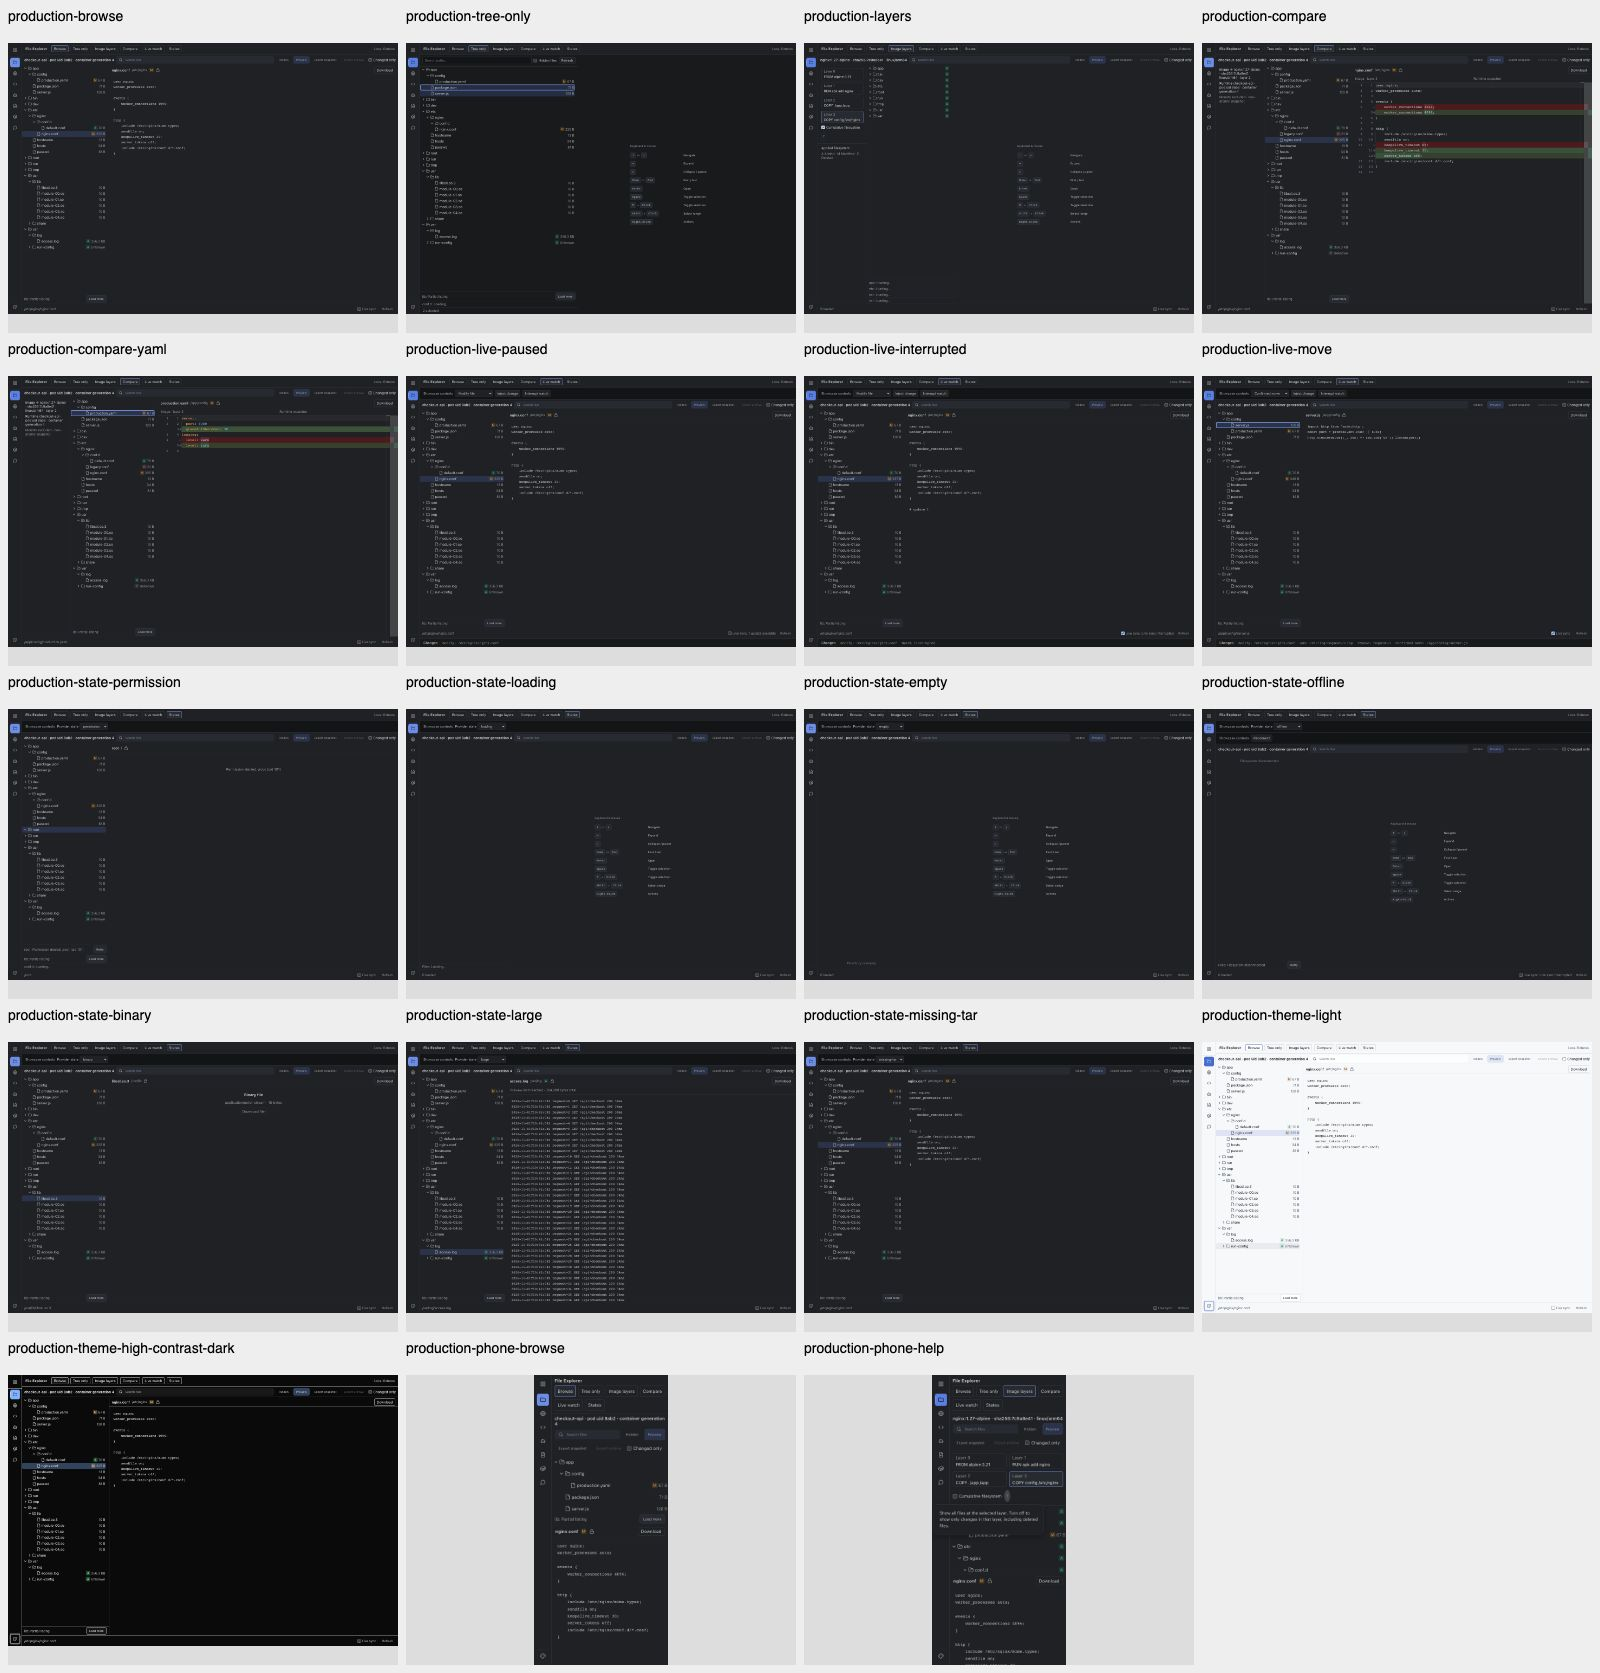
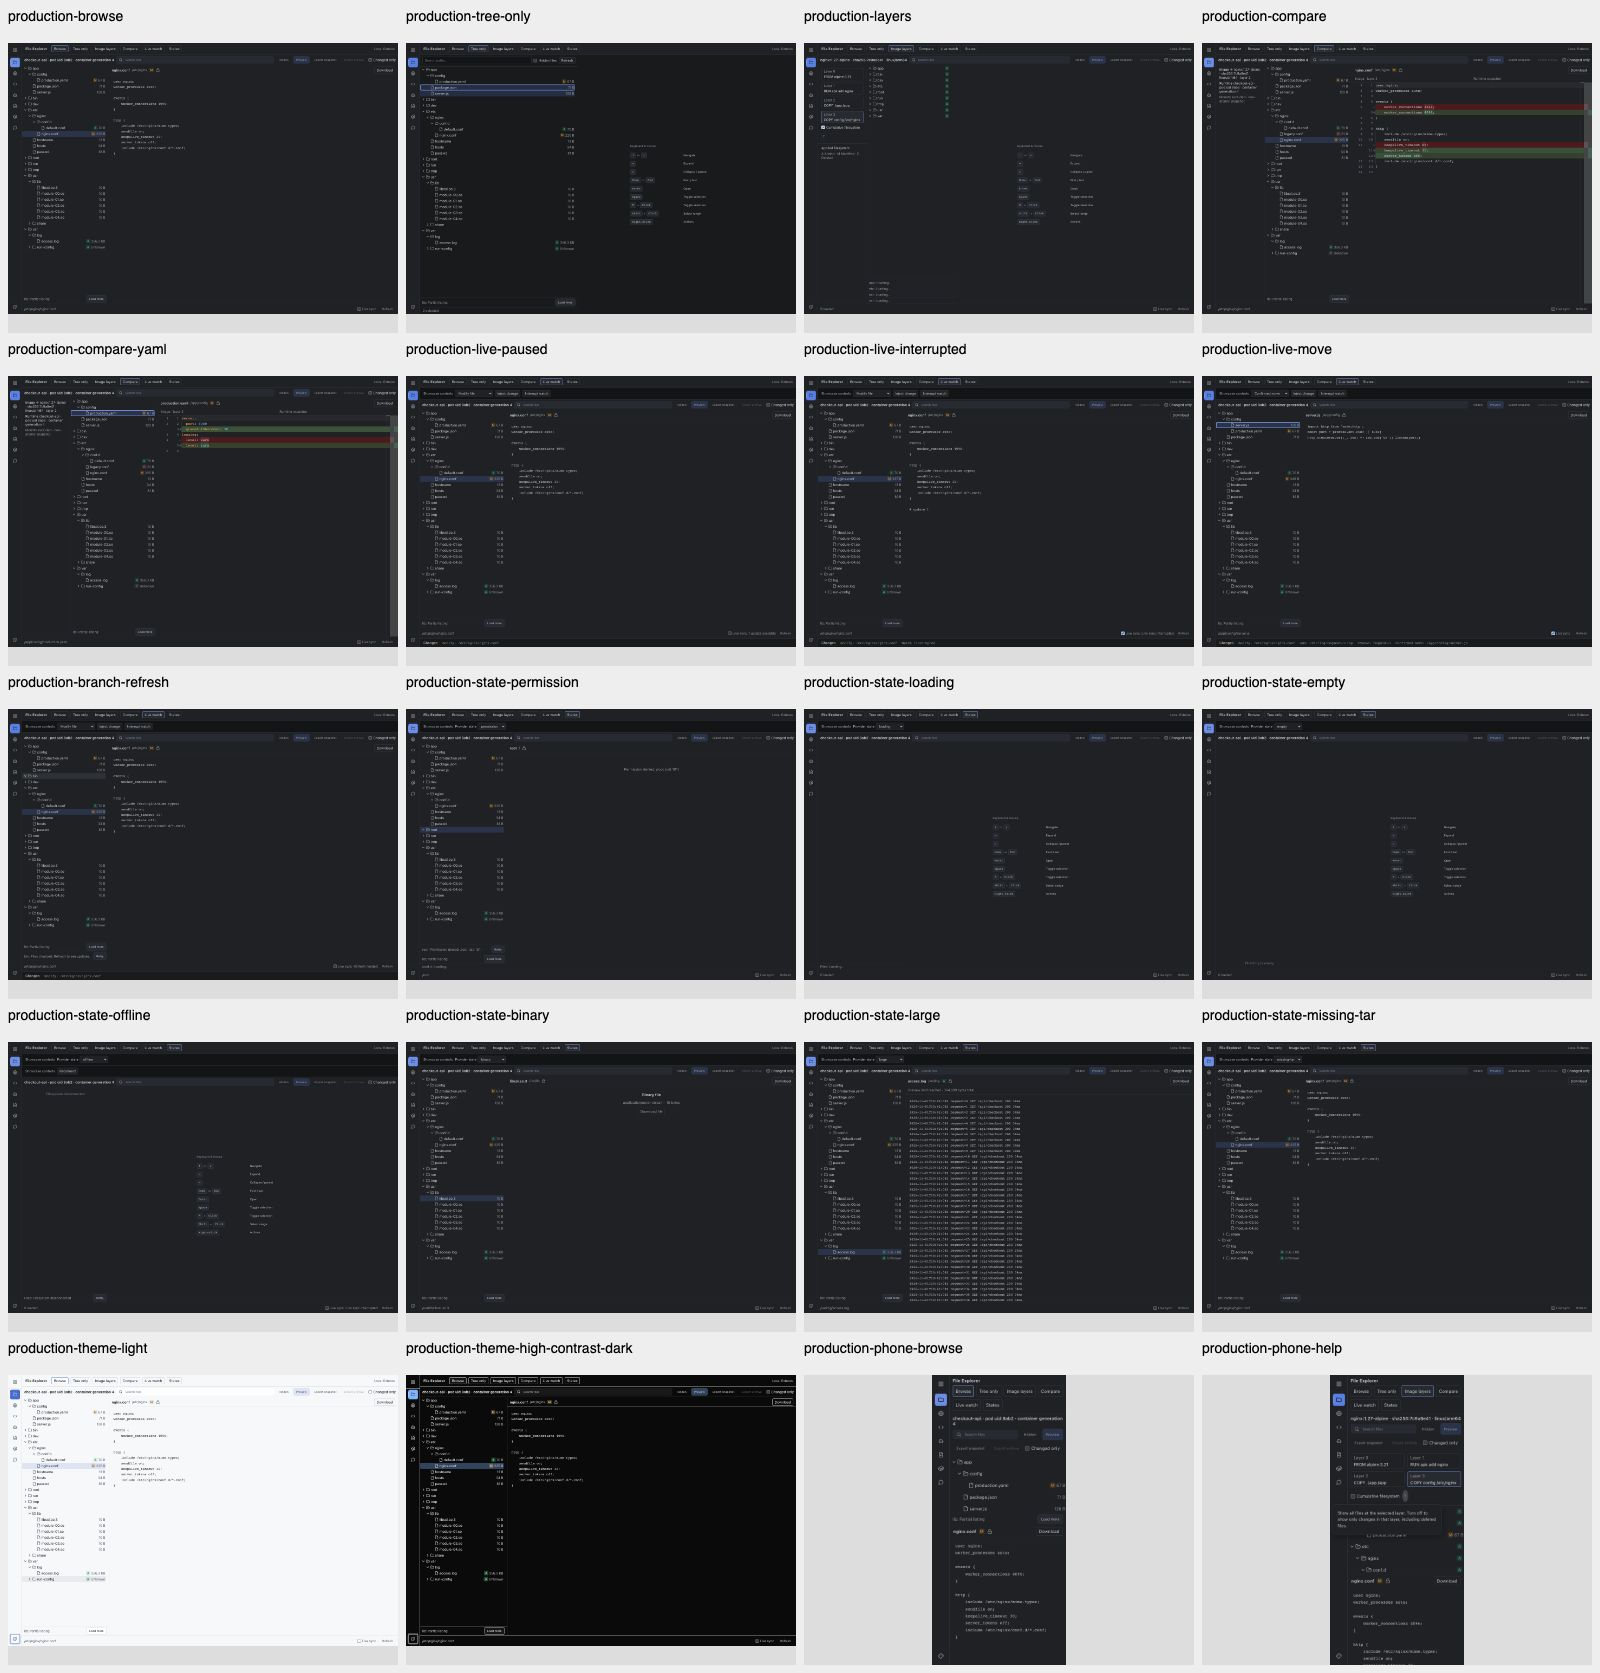
Publish merged filesystem explorer verification

diff --git a/implementation/report.md b/implementation/report.md
@@ -4,7 +4,7 @@ Tracking: https://github.com/omniviewdev/omniview/issues/240
 
 ## Delivery
 
-Implemented in the `filesystem-explorer-design` CLI workspace, UI worktree. Source changes are local, not committed, merged, or released. Four subagents handled the shortcut component, tree viewport, explorer components, and showcase; parent integrated and verified the result.
+Merged into `omniviewdev/ui` main through https://github.com/omniviewdev/ui/pull/92 at `45ff5dbfecb5becbf84a763c22cc028e63071b35` on 2026-11-01. Verified source head was `eb29a8d3955033e9ce5fa682ba83e8aa4fdc7462`, including main `61bf9c2`. All seven hosted checks passed; CodeRabbit skipped the final incremental review, and all nine prior review threads were addressed. No admin override was needed. No package release is claimed. Four initial subagents built the component slices; four additional subagents helped address review and mainline integration, with parent verification.
 
 - Public `FileTree`, `FileExplorer`, `FilePreview`, and optional `useFileSystem` provider controller.
 - Public generic `ShortcutSummary` and `KeyChord`; semantic descriptions, alternatives, and platform-aware keycaps. These display shortcuts, not register them.
@@ -14,6 +14,11 @@ Implemented in the `filesystem-explorer-design` CLI workspace, UI worktree. Sour
 - Watches begin from the established root revision. Obsolete subscription callbacks cannot overwrite current state. Permission failures remain branch-local; healthy branches continue updating after refresh. Preview refresh invalidates reused node objects.
 - DiffViewer releases widgets before owned models, including StrictMode cleanup. Editor worker assets use relative module URLs in built consumers.
 - Actual showcase covers Browse, Tree only, Image layers, Compare, Live watch, and seven provider states. Fixture actions write actual selected bytes or a JSON snapshot. Archive transport is unavailable, with an explicit reason; no fake tar export.
+- Integrated mainline resource-navigation activation, controlled state, and independent drag-source pinning without replacing the explorer's Enter/double-click-only open contract. Committed active descendants prevent opening filtered-out controlled entries.
+- Listing coverage survives continuation loading/errors. Unknown-destination events cannot create fictitious complete branches; incompatible revisions require explicit Refresh instead of automatic retry loops.
+- Manual scroll remains stable across sizing-only and append-only changes; explicit keyboard navigation still reveals the active row.
+- Uncached moves invalidate listed destinations instead of falsely retaining complete listings. Outside-view directory requests settle as errors instead of permanent loading.
+- Removed unsupported logical assignments. Installed React Compiler 1.0.0 diagnostics now report successful compilation of `useTreeStore` and `TreeListViewport`, with no errors in the two probed modules.
 
 ## Open on another WLAN device
 
@@ -21,12 +26,13 @@ http://192.168.68.55:48733/ — tap **File Explorer** in the navigation rail. Th
 
 ## Verification
 
-- Base UI: 141 test files, 1,608 tests passed.
+- Base UI: 147 test files, 1,675 tests passed.
 - Editors: 16 test files, 229 tests passed.
 - Base UI, editors, and showcase typechecks passed; base UI, editors, and production showcase builds passed.
 - Scoped lint: zero errors, one unsuppressed React Compiler/TanStack Virtual compatibility warning. The adapter exposes reactive snapshots; actual scrolling and keyboard reveal were exercised.
-- Production Chromium smoke: 30 checks, 19 captures, zero page errors. Desktop, touch-emulated 390px phone, light and high-contrast dark themes, actual Monaco comparisons, paging/search, hidden files, multiselection, baseline content, real download/snapshot bytes, transfer cancellation, paused/manual/gap/live changes, stable-ID moves, and provider states.
+- Production Chromium smoke: 31 checks, 20 captures, zero page errors. Desktop, touch-emulated 390px phone, light and high-contrast dark themes, actual Monaco comparisons, paging/search, hidden files, multiselection, baseline content, real download/snapshot bytes, transfer cancellation, paused/manual/gap/live changes, stable-ID moves, stale-directory reconciliation, and provider states.
 - All captures reviewed as a contact sheet. Settled previews are captured except the intentional loading state. Offline capture precedes recovery.
+- Eight compiled-component checks cover scale, scroll-away preservation through responsive sizing, Windows Meta labels, and explicit opening with filtered controlled focus. Both browser receipts report zero page errors.
 
 ### One local scale sample
 
@@ -37,11 +43,11 @@ The separate browser scale driver mounts the compiled public component. These ar
 | Supplied nodes | 100,000 |
 | Visible projection | 50,001 |
 | Initially mounted rows | 38 |
-| Initial mount | 195.8 ms |
-| End-key reveal | 48.3 ms |
-| 1,001-change batch | 131.7 ms |
-| Retained heap delta | 45,886,293 bytes |
-| Phone mounted rows | 39 |
+| Initial mount | 156.9 ms |
+| End-key reveal | 30.2 ms |
+| 1,001-change batch | 100.0 ms |
+| Retained heap delta | 42,631,578 bytes |
+| Phone mounted rows | 29 |
 | Deep leaf | level 301 |
 | Tree-only reads / watches / rich modules | 0 / 0 / 0 |
 

diff --git a/implementation/FILE_EXPLORER.md b/implementation/FILE_EXPLORER.md
@@ -39,6 +39,7 @@ export function SmallTree() {
 - IDs must be unique, nonempty, and source-scoped; parent relationships must form an acyclic tree. Do not use paths as IDs when confirmed moves must preserve focus and selection.
 - Supply flat nodes with `parentId`; the displayed root defaults to `null`. `rootId` selects another parent boundary.
 - Sibling order follows the supplied node projection. Supply an ordered projection for custom grouping or sorting.
+- `onOpen` handles Enter for the committed active row and double-click, not selection clicks. It deliberately does not use TreeList's click-activated `onAction`; filtered-out or declined controlled focus cannot open an invisible entry.
 - Incomplete, unloaded, or failed sibling listings expose unknown ARIA set size (`-1`); complete listings expose the visible sibling total.
 - Metadata is typed and consumer-owned. The component does not interpret layers, credentials, comparison presence, or authorization.
 - `filter(node)` provides controlled metadata scope, including when `filterText` is empty. Ancestors remain visible for matching descendants.
@@ -103,8 +104,11 @@ Render content through `FileExplorer.preview` and `FilePreview.children`. Conten
 - `refresh()` reconciles root and loaded branches, drains queued changes, refreshes content, and restarts the subscription. It does not enable Live sync.
 - A denied child branch remains a local error after reconciliation; healthy branches continue receiving live updates. Live status describes the subscription, not complete filesystem coverage.
 - A gap, incompatible page revision, invalidation, or queue overflow marks data stale. Further patches do not silently claim freshness; Refresh reconciles it.
+- An incompatible page leaves its branch in an error state requiring explicit Refresh, not an unloaded state eligible for automatic expansion retries.
 - A watch adapter must resume from the supplied source revision or report `onGap` when it cannot bridge that revision.
-- Batches support upsert, remove, confirmed move, and branch invalidation. Supply descendant upserts when opaque paths change. A remove does not invent rename identity or historical content.
+- Batches support upsert, remove, confirmed move, and branch invalidation. An upsert describes one entry; use `move` to relocate cached directories and rebase their descendant paths. Supply descendant upserts when opaque paths change. A remove does not invent rename identity or historical content.
+- Watch upserts and moves only populate branches with an established listing, including partial listings while continuation pages load or fail. Removing or invalidating a branch clears that listing coverage. Events targeting an unknown branch evict any cached old location and descendants; listing that branch restores provider-owned IDs without claiming partial watch data is a complete listing. Moves between listed branches retain loaded descendants.
+- A move for an uncached entry invalidates a listed destination and requires Refresh; the controller does not invent the missing kind or metadata. Listing a non-root directory outside the loaded view settles as a branch error rather than remaining pending.
 - Use stable source-scoped entry IDs and ordered cursors; batch related changes before publishing. The normalized cache publishes one node projection per applied batch; row content reads remain separate.
 
 The component is not a filesystem snapshot engine. Providers own non-atomic runtime snapshots, mounts, layer reconstruction, OCI whiteouts, comparison provenance (`present` / `absent` / `unknown`), symlink boundaries, and permissions. Credentials must not be placed in file metadata.
@@ -137,7 +141,7 @@ export function SaveHint() {
 }
 ```
 
-`Mod` becomes Command on macOS and Control on Windows/Linux. Explicit `platform` values produce deterministic output. Automatic platform detection uses a hydration-safe snapshot. Descriptions accept React content; alternate chords share the same keycap and spoken-label formatting. No keyboard handlers or global listeners are registered.
+`Mod` becomes Command on macOS and Control on Windows/Linux. `Meta` identifies Command on macOS, the Windows key on Windows, and Super on Linux; explicit Command/Ctrl names remain literal. Explicit `platform` values produce deterministic output. Automatic platform detection uses a hydration-safe snapshot. Descriptions accept React content; alternate chords share the same keycap and spoken-label formatting. No keyboard handlers or global listeners are registered.
 
 ## Verification surfaces
 
